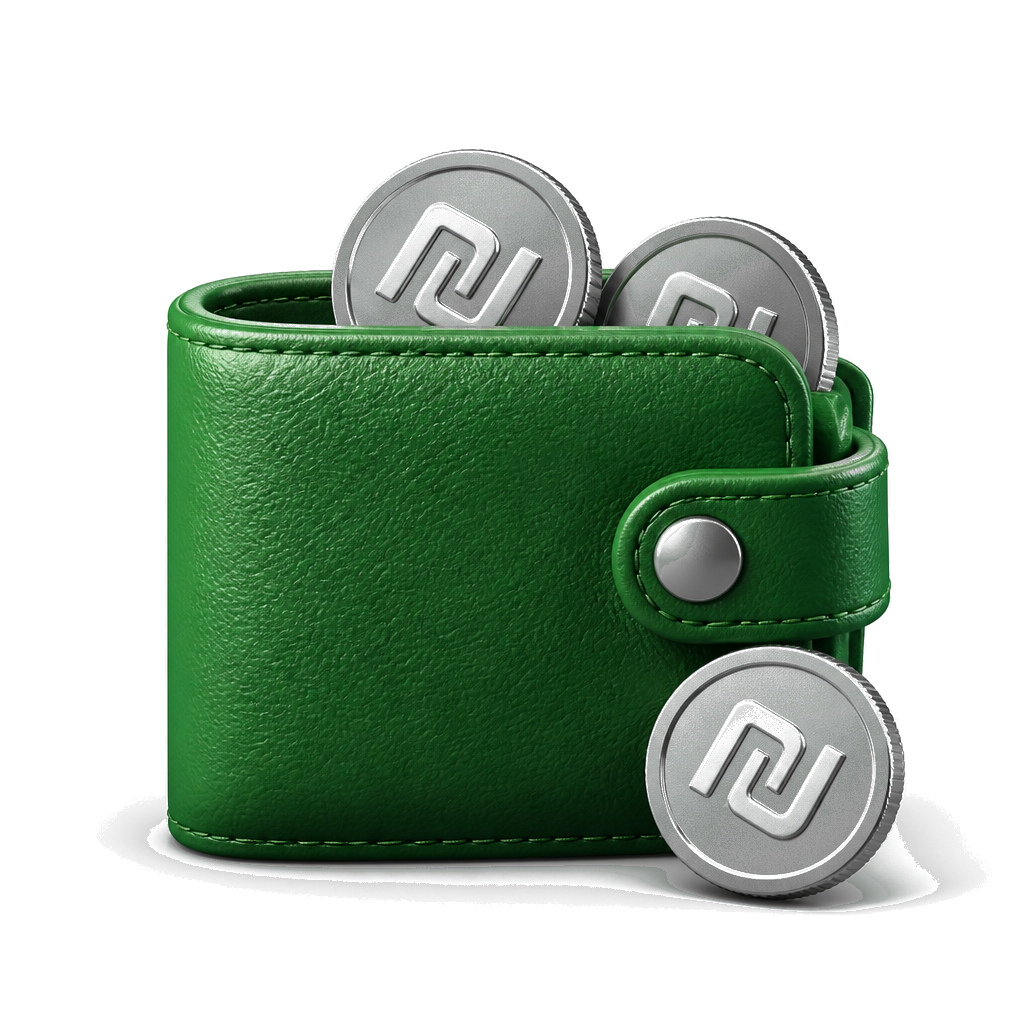
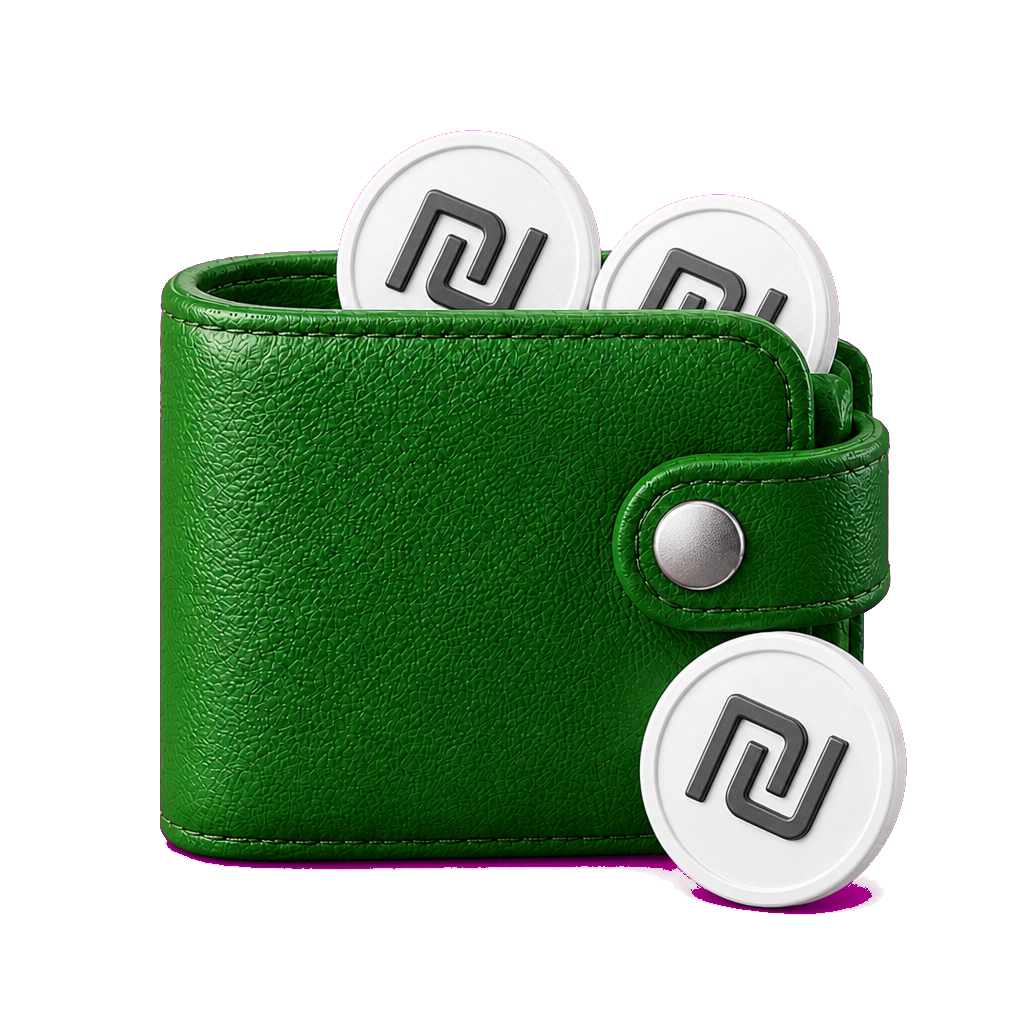
Refine courier offer card chrome and map sheet layout.
Glossy granite banner, white shekel coins, full-bleed expanded sheet, compact ~30% collapsed height with swipe-up hint, and less-rounded CTA.

diff --git a/goi-bot-frontend/src/components/courier/CourierOfferCard.tsx b/goi-bot-frontend/src/components/courier/CourierOfferCard.tsx
@@ -106,7 +106,10 @@ export function CourierOfferCard({
       <button
         type="button"
         onClick={() => onQuote(job)}
-        className="flex h-14 w-full items-center justify-center rounded-full bg-[#35AD29] text-[16px] font-extrabold text-white shadow-[0_8px_20px_rgba(53,173,41,0.35)] active:scale-[0.99]"
+        className={cn(
+          "flex w-full items-center justify-center rounded-xl bg-[#2F7A28] text-[16px] font-extrabold text-white shadow-[0_8px_18px_rgba(47,122,40,0.32)] active:scale-[0.99]",
+          expanded ? "h-14" : "h-11 text-[15px]",
+        )}
       >
         הגש הצעת מחיר
       </button>
@@ -115,20 +118,23 @@ export function CourierOfferCard({
         type="button"
         disabled={claiming}
         onClick={() => onClaim(job)}
-        className="flex h-14 w-full items-center justify-center rounded-full bg-[#35AD29] text-[16px] font-extrabold text-white shadow-[0_8px_20px_rgba(53,173,41,0.35)] disabled:opacity-60 active:scale-[0.99]"
+        className={cn(
+          "flex w-full items-center justify-center rounded-xl bg-[#2F7A28] text-[16px] font-extrabold text-white shadow-[0_8px_18px_rgba(47,122,40,0.32)] disabled:opacity-60 active:scale-[0.99]",
+          expanded ? "h-14" : "h-11 text-[15px]",
+        )}
       >
         לקחתי את {t.theJob}
       </button>
     )
   );
 
-  /* -------- Expanded: dedicated sheet, no inner scroll -------- */
+  /* -------- Expanded: full-bleed sheet on the map -------- */
   if (expanded) {
     return (
       <div
         data-job-id={job.id}
         dir="rtl"
-        className="pointer-events-auto fixed inset-x-0 bottom-0 z-40 flex h-[min(92dvh,760px)] flex-col rounded-t-[1.75rem] bg-surface shadow-[0_-12px_40px_rgba(0,0,0,0.22)]"
+        className="pointer-events-auto absolute inset-x-0 bottom-0 z-40 flex w-full max-h-[min(92%,760px)] flex-col rounded-t-[1.25rem] rounded-b-none bg-surface shadow-[0_-12px_40px_rgba(0,0,0,0.22)]"
       >
         <button
           type="button"
@@ -145,10 +151,10 @@ export function CourierOfferCard({
           </span>
         </button>
 
-        <div className="flex min-h-0 flex-1 flex-col overflow-hidden px-4 pb-[max(0.75rem,env(safe-area-inset-bottom))]">
+        <div className="flex flex-col overflow-hidden px-4 pb-[max(0.5rem,env(safe-area-inset-bottom))]">
           <RewardBanner isQuote={isQuote} payment={Number(job.payment ?? 0)} compact />
 
-          <div className="mt-2.5 min-h-0 flex-1 overflow-hidden">
+          <div className="mt-2 overflow-hidden">
             <p className="mb-1 text-right text-[13px] font-extrabold text-text-strong">פרטי המשלוח</p>
             <StopsTimeline
               businessName={businessName}
@@ -161,7 +167,7 @@ export function CourierOfferCard({
               dense
             />
 
-            <p className="mb-1 mt-2.5 text-right text-[13px] font-extrabold text-text-strong">פרטי החבילה</p>
+            <p className="mb-1 mt-2 text-right text-[13px] font-extrabold text-text-strong">פרטי החבילה</p>
             <div className="grid grid-cols-2 gap-x-3 gap-y-1.5 rounded-2xl border border-border px-3 py-2.5">
               <PkgChip label="סוג" value={packageType} />
               <PkgChip label="כמות" value={packages === 1 ? "חבילה אחת" : `${packages} חבילות`} />
@@ -170,53 +176,55 @@ export function CourierOfferCard({
             </div>
           </div>
 
-          <div className="mt-2.5 shrink-0">{cta}</div>
+          <div className="mt-1.5 shrink-0">{cta}</div>
         </div>
       </div>
     );
   }
 
-  /* -------- Collapsed: reference compact card -------- */
+  /* -------- Collapsed: ~30% map height, denser -------- */
   return (
-    <div data-job-id={job.id} dir="rtl" className="snap-center w-full shrink-0">
-      <article className="overflow-hidden rounded-t-[1.75rem] rounded-b-[1.25rem] bg-surface shadow-card-strong border border-border">
+    <div data-job-id={job.id} dir="rtl" className="h-full min-h-0 w-full min-w-full shrink-0 snap-center">
+      <article className="flex h-full max-h-full flex-col overflow-hidden rounded-t-[1.25rem] rounded-b-none border border-b-0 border-border bg-surface shadow-card-strong">
         <button
           type="button"
-          className="flex w-full flex-col items-center pt-2.5 pb-1"
+          className="flex w-full shrink-0 flex-col items-center gap-0.5 pt-1.5 pb-0.5"
           onClick={() => setOpen(true)}
           onTouchStart={onHandleTouchStart}
           onTouchEnd={onHandleTouchEnd}
           aria-label="פתח פרטים"
         >
           <span className="h-1 w-10 rounded-full bg-[#D1D5DB]" aria-hidden />
+          <span className="text-[10px] font-bold text-text-muted">החלק למעלה לפרטים נוספים</span>
         </button>
 
-        <div className="px-3.5 pb-3.5">
-          <RewardBanner isQuote={isQuote} payment={Number(job.payment ?? 0)} />
+        <div className="flex min-h-0 flex-1 flex-col px-3 pb-[max(0.4rem,env(safe-area-inset-bottom))]">
+          <RewardBanner isQuote={isQuote} payment={Number(job.payment ?? 0)} compact />
 
-          <div className="mt-3">
+          <div className="mt-1.5 min-h-0 flex-1 overflow-hidden">
             <StopsTimeline
               businessName={businessName}
               pickup={pickup}
               dropTitle={dropTitle}
               dropoffArea={job.dropoff_area}
+              dense
             />
           </div>
 
-          <div className="mt-3 grid grid-cols-2 divide-x divide-x-reverse divide-border border-y border-border py-2.5">
+          <div className="mt-1.5 grid shrink-0 grid-cols-2 divide-x divide-x-reverse divide-border border-y border-border py-1.5">
             <MetaCell
-              icon={<Route className="size-4 text-[#35AD29]" />}
+              icon={<Route className="size-3.5 text-[#35AD29]" />}
               label="מרחק מסלול"
               value={tripKm != null ? formatKm(tripKm) : "—"}
             />
             <MetaCell
-              icon={<CreditCard className="size-4 text-[#35AD29]" />}
+              icon={<CreditCard className="size-3.5 text-[#35AD29]" />}
               label="אמצעי תשלום"
               value={payLabel}
             />
           </div>
 
-          <div className="mt-3">{cta}</div>
+          <div className="mt-1.5 shrink-0">{cta}</div>
         </div>
       </article>
     </div>
@@ -235,29 +243,39 @@ function RewardBanner({
   return (
     <div
       className={cn(
-        "relative overflow-hidden rounded-2xl bg-[#1F5C2E] text-white",
-        compact ? "px-3.5 py-3" : "px-4 py-3.5",
+        "relative overflow-hidden rounded-2xl text-white",
+        "bg-[linear-gradient(145deg,#4A5F54_0%,#3A4C43_42%,#2F3D36_100%)]",
+        "shadow-[inset_0_1px_0_rgba(255,255,255,0.28),inset_0_-1px_0_rgba(0,0,0,0.22),0_6px_14px_rgba(0,0,0,0.18)]",
+        compact ? "px-3 py-2" : "px-4 py-3.5",
       )}
     >
-      <div className="flex items-center justify-between gap-3">
+      <div
+        className="pointer-events-none absolute inset-0 bg-[linear-gradient(115deg,rgba(255,255,255,0.34)_0%,rgba(255,255,255,0.08)_28%,rgba(255,255,255,0)_52%)]"
+        aria-hidden
+      />
+      <div
+        className="pointer-events-none absolute -left-8 top-[-40%] h-[140%] w-16 rotate-12 bg-white/15 blur-md"
+        aria-hidden
+      />
+      <div className="relative flex items-center justify-between gap-3">
         <div className="min-w-0 text-right">
           {isQuote ? (
-            <p className="text-[28px] font-black leading-none">₪?</p>
+            <p className={cn("font-black leading-none", compact ? "text-[22px]" : "text-[28px]")}>₪?</p>
           ) : (
-            <p className="text-[28px] font-black leading-none tabular-nums">
+            <p className={cn("font-black leading-none tabular-nums", compact ? "text-[22px]" : "text-[28px]")}>
               {payment.toFixed(0)} ₪
             </p>
           )}
-          <p className="mt-1 text-[12px] font-semibold text-white/85">
+          <p className={cn("font-semibold text-white/90", compact ? "mt-0.5 text-[11px]" : "mt-1 text-[12px]")}>
             התגמול שלך עבור המשלוח
           </p>
         </div>
         <img
-          src="/courier/reward-wallet.png?v=3"
+          src="/courier/reward-wallet.png?v=9"
           alt=""
           className={cn(
             "shrink-0 bg-transparent object-contain drop-shadow-[0_6px_10px_rgba(0,0,0,0.35)]",
-            compact ? "h-16 w-16" : "h-[72px] w-[72px]",
+            compact ? "h-12 w-12" : "h-[72px] w-[72px]",
           )}
           draggable={false}
         />
@@ -392,11 +410,11 @@ function MetaCell({
   value: string;
 }) {
   return (
-    <div className="flex items-center justify-center gap-2 px-2">
+    <div className="flex items-center justify-center gap-1.5 px-1.5">
       {icon}
-      <div className="text-right">
-        <p className="text-[10px] font-bold text-text-muted">{label}</p>
-        <p className="text-[13px] font-extrabold text-text-strong">{value}</p>
+      <div className="min-w-0 text-right">
+        <p className="text-[9px] font-bold text-text-muted">{label}</p>
+        <p className="truncate text-[12px] font-extrabold text-text-strong">{value}</p>
       </div>
     </div>
   );

diff --git a/goi-bot-frontend/public/courier-card-preview.html b/goi-bot-frontend/public/courier-card-preview.html
@@ -5,7 +5,7 @@
   <meta name="viewport" content="width=device-width, initial-scale=1, maximum-scale=1" />
   <title>כרטיס משלוח חדש — Goi</title>
   <style>
-    :root { --green:#35AD29; --deep:#1F5C2E; --orange:#E86B3A; --strong:#07101d; --subtle:#6B6B6B; --border:#E6E6E6; }
+    :root { --green:#2F7A28; --deep:#3E4E44; --orange:#E86B3A; --strong:#07101d; --subtle:#6B6B6B; --border:#E6E6E6; }
     * { box-sizing: border-box; }
     body { margin:0; font-family: Heebo, system-ui, sans-serif; background:#cfd4db; color:var(--strong); }
     .phone { max-width:390px; margin:0 auto; min-height:100dvh; background:linear-gradient(180deg,#e8edf2,#d5dbe3); position:relative; overflow:hidden; }
@@ -14,14 +14,15 @@
     .tab { flex:1; height:40px; border-radius:999px; border:1px solid var(--border); background:#f6f6f6; font-weight:800; font-size:13px; }
     .tab.on { background:var(--green); color:#fff; border-color:var(--green); }
     .sheet { position:absolute; left:0; right:0; bottom:0; background:#fff; border-radius:28px 28px 0 0; box-shadow:0 -12px 40px rgba(0,0,0,.18); padding:0 14px max(12px, env(safe-area-inset-bottom)); }
-    .sheet.full { top:8dvh; display:flex; flex-direction:column; }
+    .sheet.full { top:auto; display:flex; flex-direction:column; }
     .handle { display:flex; flex-direction:column; align-items:center; gap:2px; padding:10px 0 6px; }
     .bar { width:40px; height:4px; border-radius:99px; background:#D1D5DB; }
     .hint { font-size:11px; font-weight:700; color:#6b7280; display:flex; align-items:center; gap:2px; }
-    .banner { display:flex; align-items:center; justify-content:space-between; gap:12px; background:var(--deep); color:#fff; border-radius:16px; padding:14px 16px; }
-    .pay { font-size:28px; font-weight:900; line-height:1; }
-    .sub { font-size:12px; opacity:.85; margin-top:4px; font-weight:600; }
-    .wallet { width:68px; height:68px; object-fit:contain; background:transparent; filter:drop-shadow(0 6px 10px rgba(0,0,0,.35)); }
+    .banner { display:flex; align-items:center; justify-content:space-between; gap:12px; background:linear-gradient(145deg,#4A5F54 0%,#3A4C43 42%,#2F3D36 100%); color:#fff; border-radius:16px; padding:14px 16px; position:relative; overflow:hidden; box-shadow:inset 0 1px 0 rgba(255,255,255,.28), inset 0 -1px 0 rgba(0,0,0,.22), 0 6px 14px rgba(0,0,0,.18); }
+    .banner::before { content:""; position:absolute; inset:0; background:linear-gradient(115deg,rgba(255,255,255,.34) 0%,rgba(255,255,255,.08) 28%,rgba(255,255,255,0) 52%); pointer-events:none; }
+    .pay { font-size:28px; font-weight:900; line-height:1; position:relative; z-index:1; }
+    .sub { font-size:12px; opacity:.9; margin-top:4px; font-weight:600; position:relative; z-index:1; }
+    .wallet { width:68px; height:68px; object-fit:contain; background:transparent; filter:drop-shadow(0 6px 10px rgba(0,0,0,.35)); position:relative; z-index:1; }
     .row { display:flex; gap:12px; align-items:flex-start; position:relative; }
     .rail { position:absolute; right:15px; top:28px; bottom:28px; border-right:1px dashed #C9CDD3; }
     .dot { width:32px; height:32px; border-radius:999px; display:grid; place-items:center; color:#fff; flex-shrink:0; z-index:1; }
@@ -30,14 +31,12 @@
     .ttl { font-size:15px; font-weight:800; }
     .muted { font-size:12px; color:var(--subtle); }
     .badge { display:inline-flex; align-items:center; gap:4px; margin-top:6px; background:#E8F8E6; color:#1F7A2E; border-radius:999px; padding:3px 10px; font-size:11px; font-weight:700; }
-    .actions { display:flex; justify-content:flex-end; gap:6px; margin-top:8px; }
-    .ib { width:32px; height:32px; border-radius:999px; border:1px solid var(--border); background:#fff; display:grid; place-items:center; }
     .meta { display:grid; grid-template-columns:1fr 1fr; border-top:1px solid var(--border); border-bottom:1px solid var(--border); margin-top:12px; padding:10px 0; }
     .meta > div { display:flex; align-items:center; justify-content:center; gap:8px; }
     .meta > div:first-child { border-left:1px solid var(--border); }
     .meta .k { font-size:10px; font-weight:700; color:var(--subtle); text-align:right; }
     .meta .v { font-size:13px; font-weight:800; text-align:right; }
-    .cta { margin-top:12px; width:100%; height:56px; border:0; border-radius:999px; background:var(--green); color:#fff; font-size:16px; font-weight:800; box-shadow:0 8px 20px rgba(53,173,41,.35); }
+    .cta { margin-top:12px; width:100%; height:56px; border:0; border-radius:12px; background:var(--green); color:#fff; font-size:16px; font-weight:800; box-shadow:0 8px 20px rgba(47,122,40,.32); }
     .section { font-size:13px; font-weight:800; margin:12px 0 6px; text-align:right; }
     .pkg { display:grid; grid-template-columns:1fr 1fr; gap:8px 12px; border:1px solid var(--border); border-radius:16px; padding:10px 12px; }
     .pkg .k { font-size:10px; font-weight:700; color:var(--subtle); }
@@ -46,8 +45,8 @@
     .box { border:1px solid var(--border); border-radius:16px; padding:8px 12px; text-align:right; }
     .box .top { display:flex; justify-content:space-between; align-items:center; }
     .hidden { display:none !important; }
-    .body { flex:1; min-height:0; overflow:hidden; display:flex; flex-direction:column; }
-    .grow { flex:1; min-height:0; overflow:hidden; }
+    .body { overflow:hidden; display:flex; flex-direction:column; }
+    .grow { overflow:hidden; }
   </style>
 </head>
 <body>
@@ -66,7 +65,7 @@
           <div class="pay">154 ₪</div>
           <div class="sub">התגמול שלך עבור המשלוח</div>
         </div>
-        <img class="wallet" src="/courier/reward-wallet.png?v=3" alt="" />
+        <img class="wallet" src="/courier/reward-wallet.png?v=9" alt="" />
       </div>
       <div style="margin-top:12px; position:relative;">
         <div class="rail" style="top:32px;bottom:32px"></div>
@@ -116,7 +115,7 @@
             <div class="pay">154 ₪</div>
             <div class="sub">התגמול שלך עבור המשלוח</div>
           </div>
-          <img class="wallet" style="width:60px;height:60px" src="/courier/reward-wallet.png?v=3" alt="" />
+          <img class="wallet" style="width:60px;height:60px" src="/courier/reward-wallet.png?v=9" alt="" />
         </div>
         <div class="grow">
           <div class="section">פרטי המשלוח</div>

diff --git a/goi-bot-frontend/src/components/CourierJobsMap.tsx b/goi-bot-frontend/src/components/CourierJobsMap.tsx
@@ -22,7 +22,7 @@ const TRACKING_ID = import.meta.env.VITE_LOVABLE_CONNECTOR_GOOGLE_MAPS_TRACKING_
 const BROWSER_KEY = import.meta.env.VITE_LOVABLE_CONNECTOR_GOOGLE_MAPS_BROWSER_KEY;
 
 const DEFAULT_CENTER = { lat: 32.0853, lng: 34.7818 };
-const MAP_FIT_PAD = { top: 180, right: 48, bottom: 260, left: 56 } as const;
+const MAP_FIT_PAD = { top: 160, right: 40, bottom: 200, left: 48 } as const;
 
 function tokenColor(el: HTMLElement | null, name: string, fallback: string) {
   if (!el) return fallback;
@@ -748,7 +748,9 @@ export function CourierJobsMap({ jobs, onClaim, onDecline, onQuote, onDetails, c
             <div
               className={cn(
                 "absolute z-10 pointer-events-none",
-                offerExpanded ? "inset-0" : "inset-x-0 bottom-0 px-0 sm:inset-x-3 sm:bottom-3",
+                offerExpanded
+                  ? "inset-0"
+                  : "inset-x-0 bottom-0 flex h-[30%] flex-col justify-end",
               )}
             >
               {offerExpanded && (
@@ -760,7 +762,7 @@ export function CourierJobsMap({ jobs, onClaim, onDecline, onQuote, onDetails, c
                 />
               )}
               {hasMultiple && (
-                <div dir="rtl" className="pointer-events-auto mx-3 mb-2 flex items-center justify-between gap-2">
+                <div dir="rtl" className="pointer-events-auto mx-2 mb-1.5 flex shrink-0 items-center justify-between gap-2">
                   <button
                     type="button"
                     onClick={() => goToIdx(activeIdx - 1)}
@@ -815,8 +817,8 @@ export function CourierJobsMap({ jobs, onClaim, onDecline, onQuote, onDetails, c
                 className={cn(
                   "pointer-events-auto",
                   offerExpanded
-                    ? "h-full"
-                    : "flex gap-3 overflow-x-auto snap-x snap-mandatory scroll-smooth no-scrollbar px-3 pb-[max(0.5rem,env(safe-area-inset-bottom))]",
+                    ? "relative h-full w-full"
+                    : "flex min-h-0 max-h-full gap-0 overflow-x-auto snap-x snap-mandatory scroll-smooth no-scrollbar",
                 )}
                 style={offerExpanded ? undefined : { scrollbarWidth: "none" }}
               >
